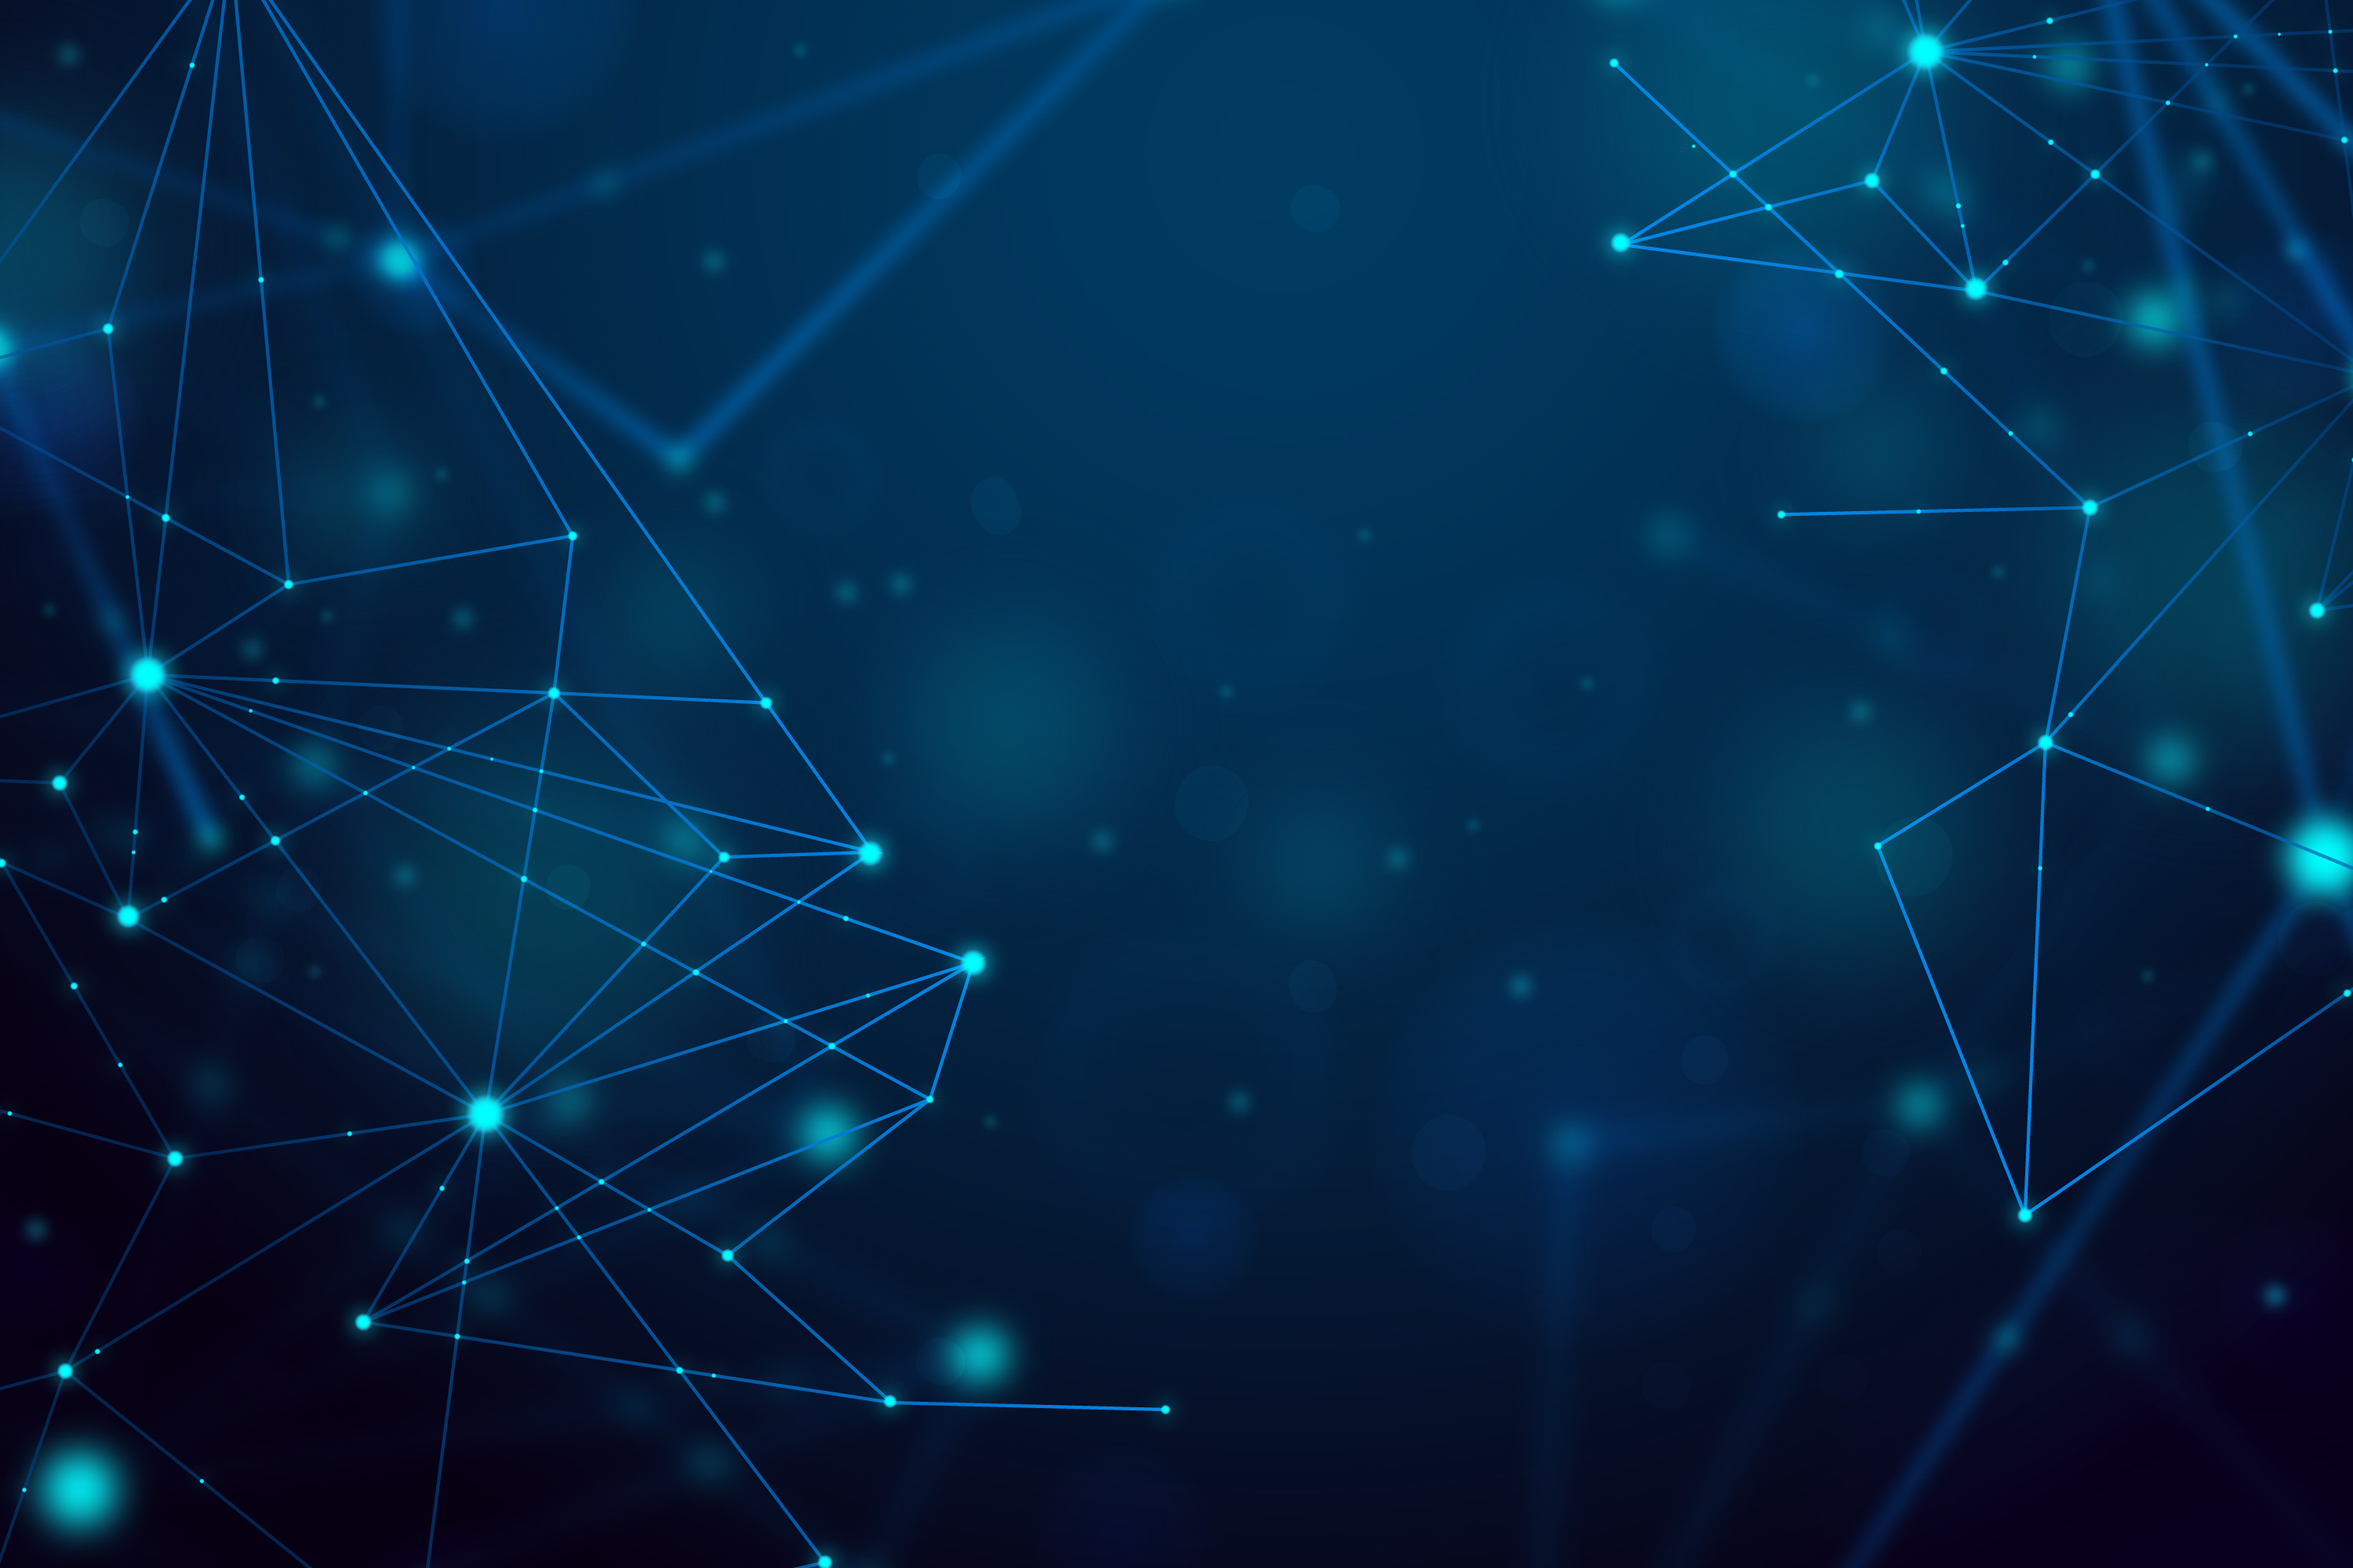
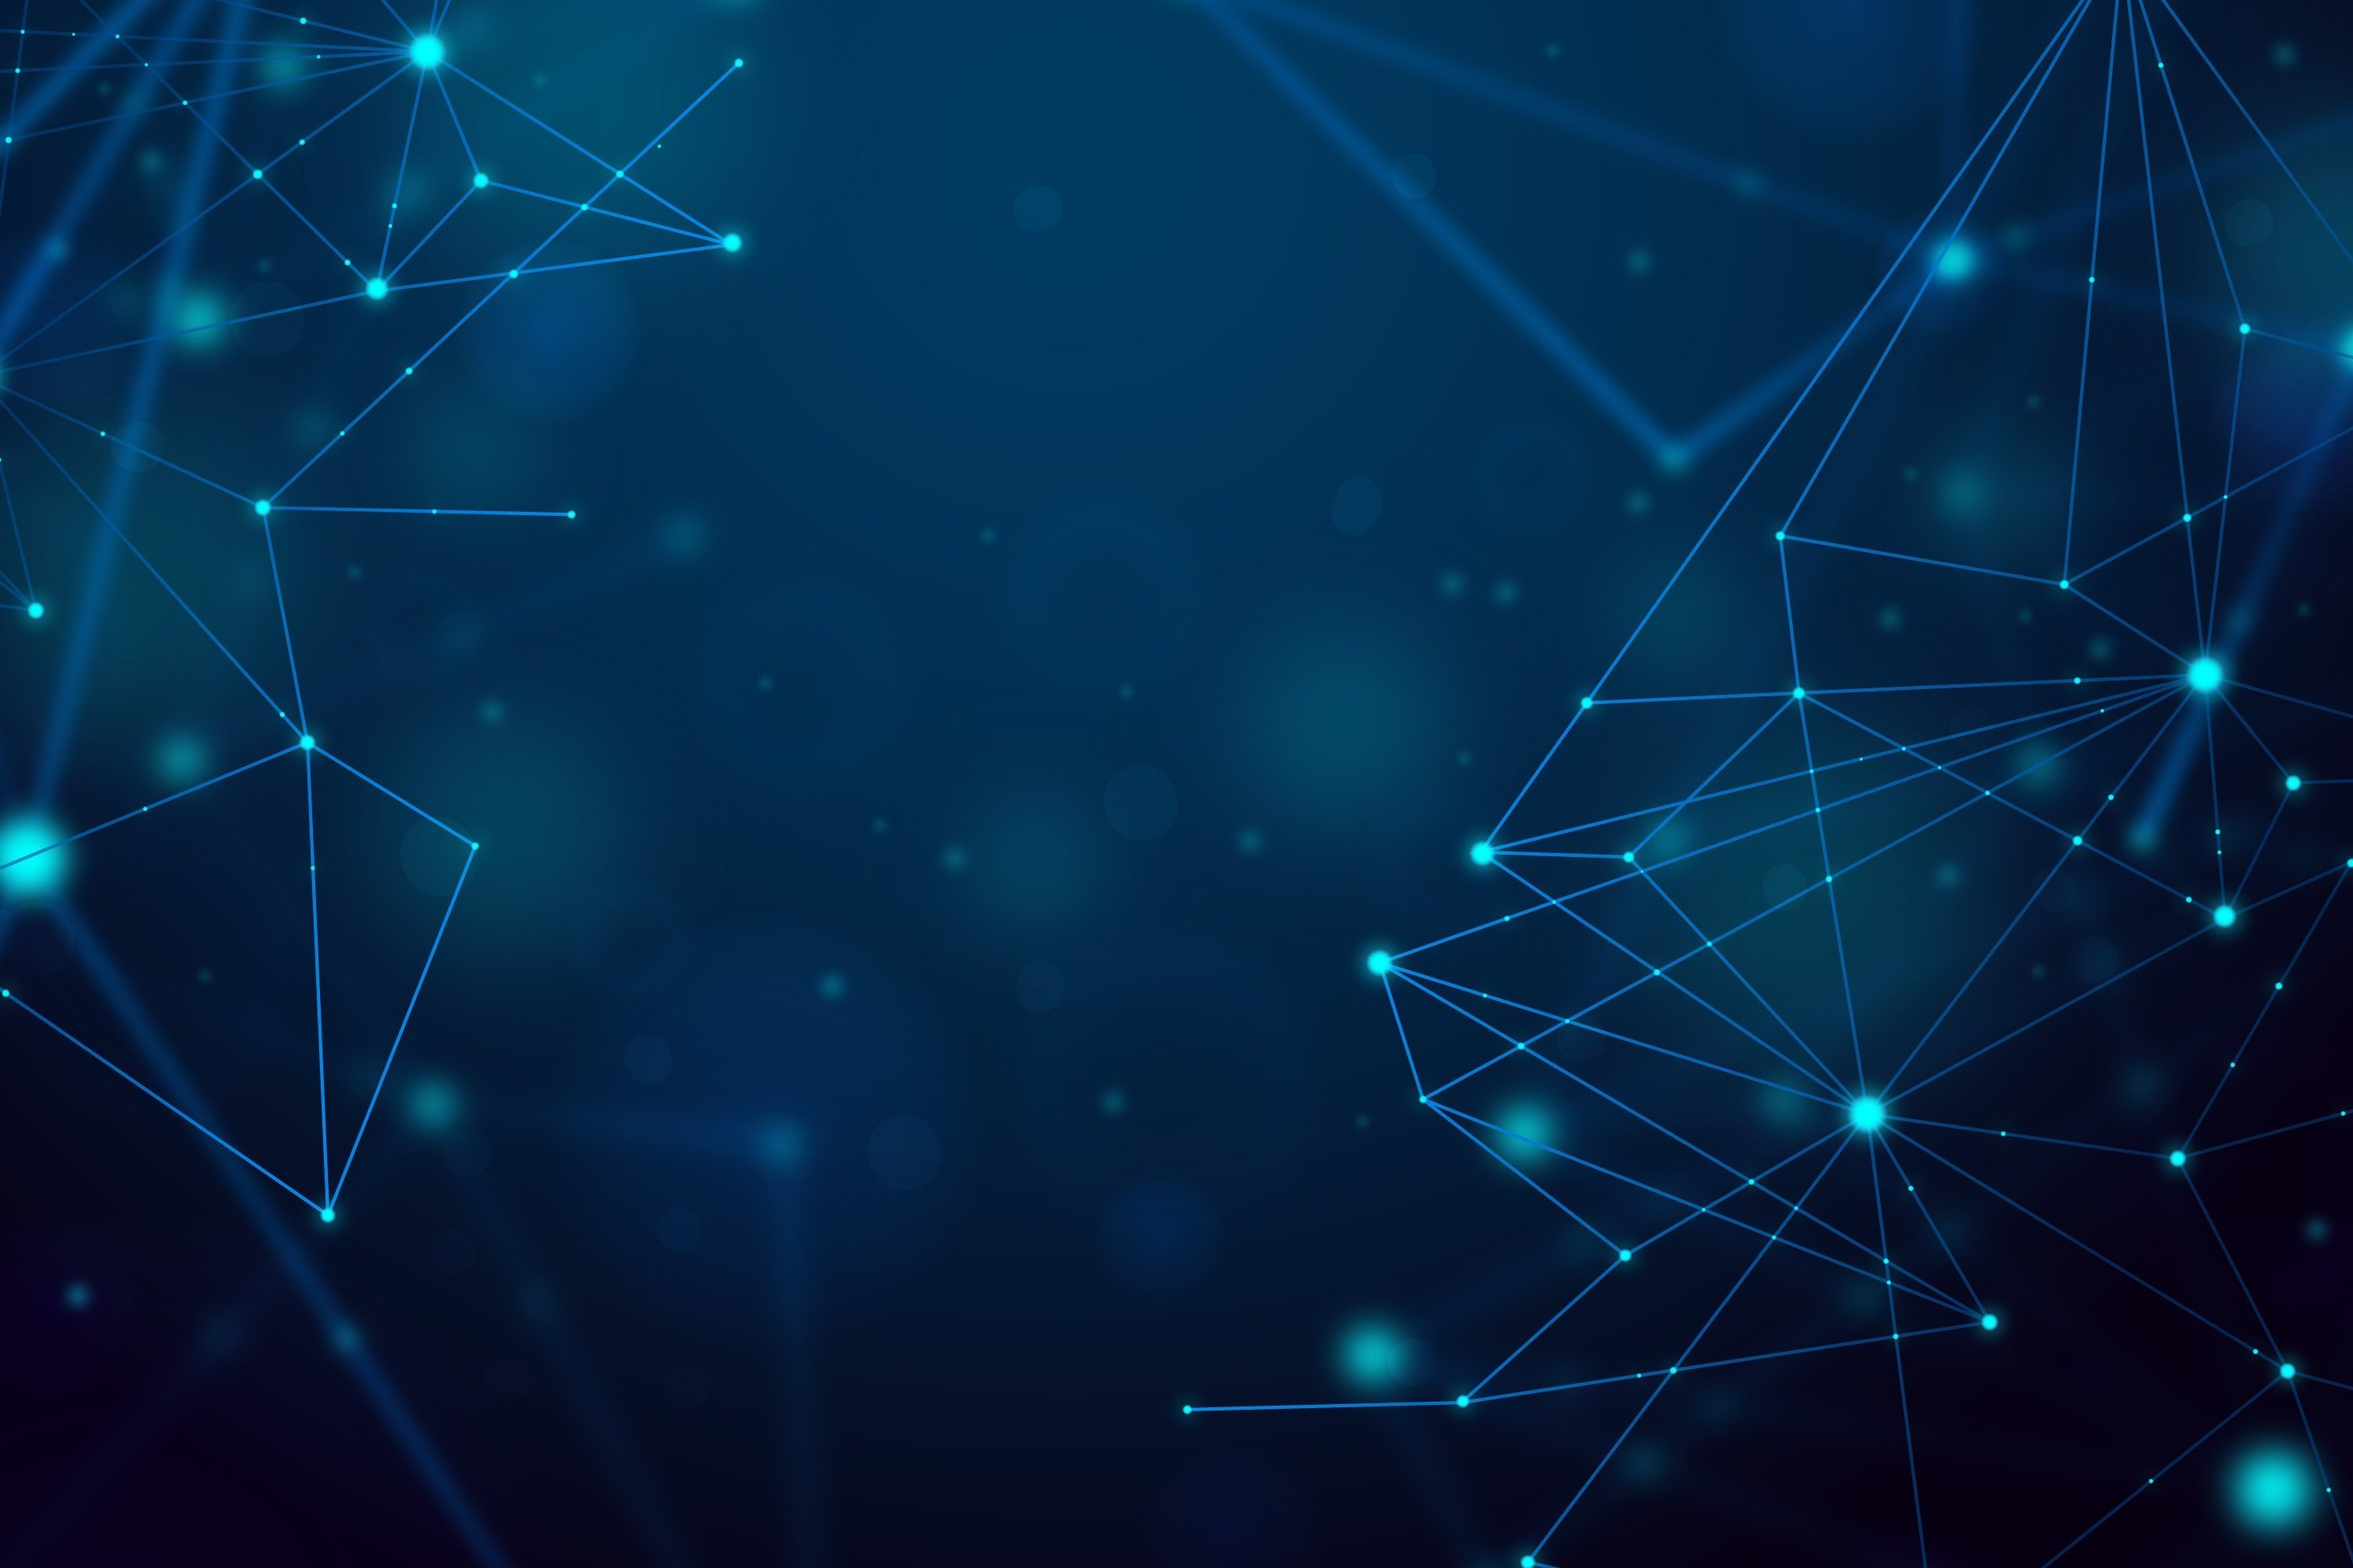
Added about and protfolio pages

diff --git a/src/app/layout.js b/src/app/layout.js
@@ -1,27 +1,42 @@
+"use client"
+
 import './globals.css'
 import Link from 'next/link'
 import localFont from 'next/font/local'
+import { useEffect } from 'react'
+import { usePathname } from 'next/navigation'
 
 const batmanForeverA = localFont({ src: '../fonts/batman_forever/batmfa__.ttf' })
 
 export default function RootLayout({ children }) {
+
+  const pathname = usePathname()
+
+  useEffect(() => {
+    console.log(pathname)
+  }, [pathname])
+
   return (
     <html lang='en'>
       <body>
         <nav className={`fixed right-0 top-0 flex p-5 ${batmanForeverA.className}`}>
           <ul className="navList flex justify-around space-x-5 text-lg">
-            <Link href={'/'} className='cursor-techno border border-sky-300 rounded-tl-2xl rounded-br-2xl rounded-tr-sm rounded-bl-sm text-center w-40 py-1 bg-sky-400/10 hover:bg-sky-400/20 outline outline-0 hover:outline-1 hover:scale-110 active:bg-sky-400/40 duration-100 group'>
+            <Link href={'/'} className={`cursor-techno border border-sky-300 rounded-tl-2xl rounded-br-2xl rounded-tr-sm rounded-bl-sm text-center w-40 py-1 ${pathname === '/' ? 'bg-sky-400/40' : 'bg-sky-400/10'} hover:bg-sky-400/20 outline outline-0 hover:outline-1 hover:scale-110 active:bg-sky-400/40 duration-100 group`}>
               <li className="navItem text-sky-400">Home</li>
             </Link>
-            <Link href={'/'} className='cursor-techno border border-sky-300 rounded-tl-2xl rounded-br-2xl rounded-tr-sm rounded-bl-sm text-center w-40 py-1 bg-sky-400/10 hover:bg-sky-400/20 outline outline-0 hover:outline-1 hover:scale-110 active:bg-sky-400/40 duration-100 group'>
+
+            <Link href={'/about'} className={`cursor-techno border border-sky-300 rounded-tl-2xl rounded-br-2xl rounded-tr-sm rounded-bl-sm text-center w-40 py-1 ${pathname === '/about' ? 'bg-sky-400/40' : 'bg-sky-400/10'} hover:bg-sky-400/20 outline outline-0 hover:outline-1 hover:scale-110 active:bg-sky-400/40 duration-100 group`}>
               <li className="navItem text-sky-400">About</li>
             </Link>
-            <Link href={'/'} className='cursor-techno border border-sky-300 rounded-tl-2xl rounded-br-2xl rounded-tr-sm rounded-bl-sm text-center w-40 py-1 bg-sky-400/10 hover:bg-sky-400/20 outline outline-0 hover:outline-1 hover:scale-110 active:bg-sky-400/40 duration-100 group'>
+
+            <Link href={'/portfolio'} className={`cursor-techno border border-sky-300 rounded-tl-2xl rounded-br-2xl rounded-tr-sm rounded-bl-sm text-center w-40 py-1 ${pathname === '/portfolio' ? 'bg-sky-400/40' : 'bg-sky-400/10'} hover:bg-sky-400/20 outline outline-0 hover:outline-1 hover:scale-110 active:bg-sky-400/40 duration-100 group`}>
               <li className="navItem text-sky-400">Portfolio</li>
             </Link>
-            <Link href={'/'} className='cursor-techno border border-sky-300 rounded-tl-2xl rounded-br-2xl rounded-tr-sm rounded-bl-sm text-center w-40 py-1 bg-sky-400/10 hover:bg-sky-400/20 outline outline-0 hover:outline-1 hover:scale-110 active:bg-sky-400/40 duration-100 group'>
+
+            <Link href={'/contact'} className={`cursor-techno border border-sky-300 rounded-tl-2xl rounded-br-2xl rounded-tr-sm rounded-bl-sm text-center w-40 py-1 ${pathname === '/contact' ? 'bg-sky-400/40' : 'bg-sky-400/10'} hover:bg-sky-400/20 outline outline-0 hover:outline-1 hover:scale-110 active:bg-sky-400/40 duration-100 group`}>
               <li className="navItem text-sky-400">Contact</li>
             </Link>
+
           </ul>
         </nav>
 

diff --git a/src/app/globals.css b/src/app/globals.css
@@ -11,8 +11,11 @@ html, .cursor-techno {
   cursor: url("/cursor_2.cur"), auto;
 }
 
-.gochi {
-  margin-top:  10vh;
+body {
+  background-image: url("/bg.jpg");
+  background-size: cover;
+  background-repeat: no-repeat;
+  
 }
 
 .text-sky-400::-moz-selection, .text-sky-300::-moz-selection {

diff --git a/src/app/portfolio/page.js b/src/app/portfolio/page.js
@@ -1,0 +1,9 @@
+import React from 'react'
+
+const Portfolio = () => {
+  return (
+    <div>Portfolio</div>
+  )
+}
+
+export default Portfolio

diff --git a/src/app/about/page.js b/src/app/about/page.js
@@ -1,0 +1,9 @@
+import React from 'react'
+
+const About = () => {
+  return (
+    <div>About</div>
+  )
+}
+
+export default About
